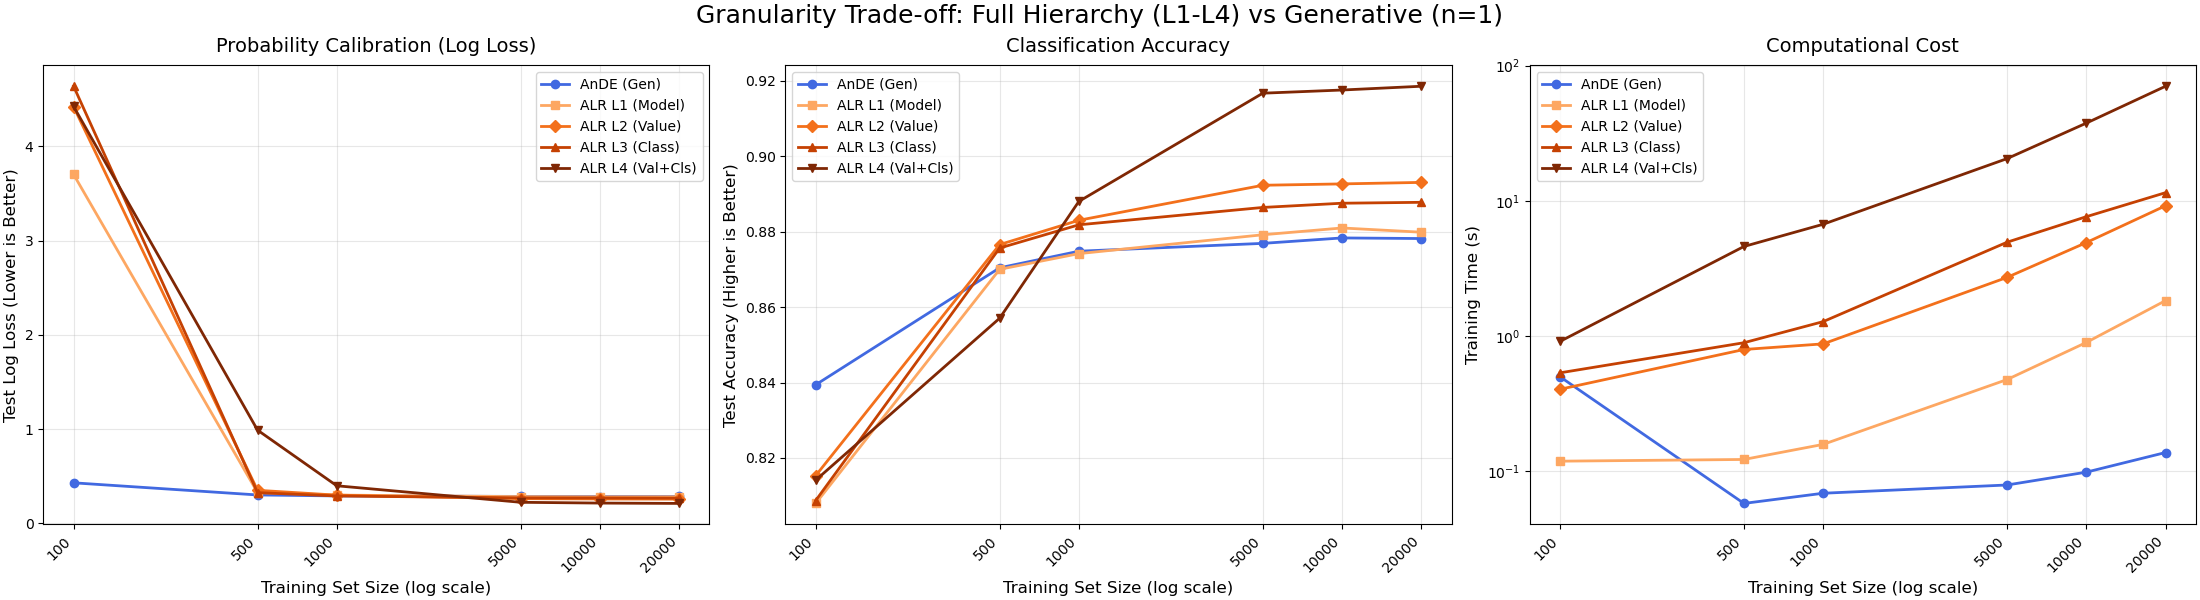
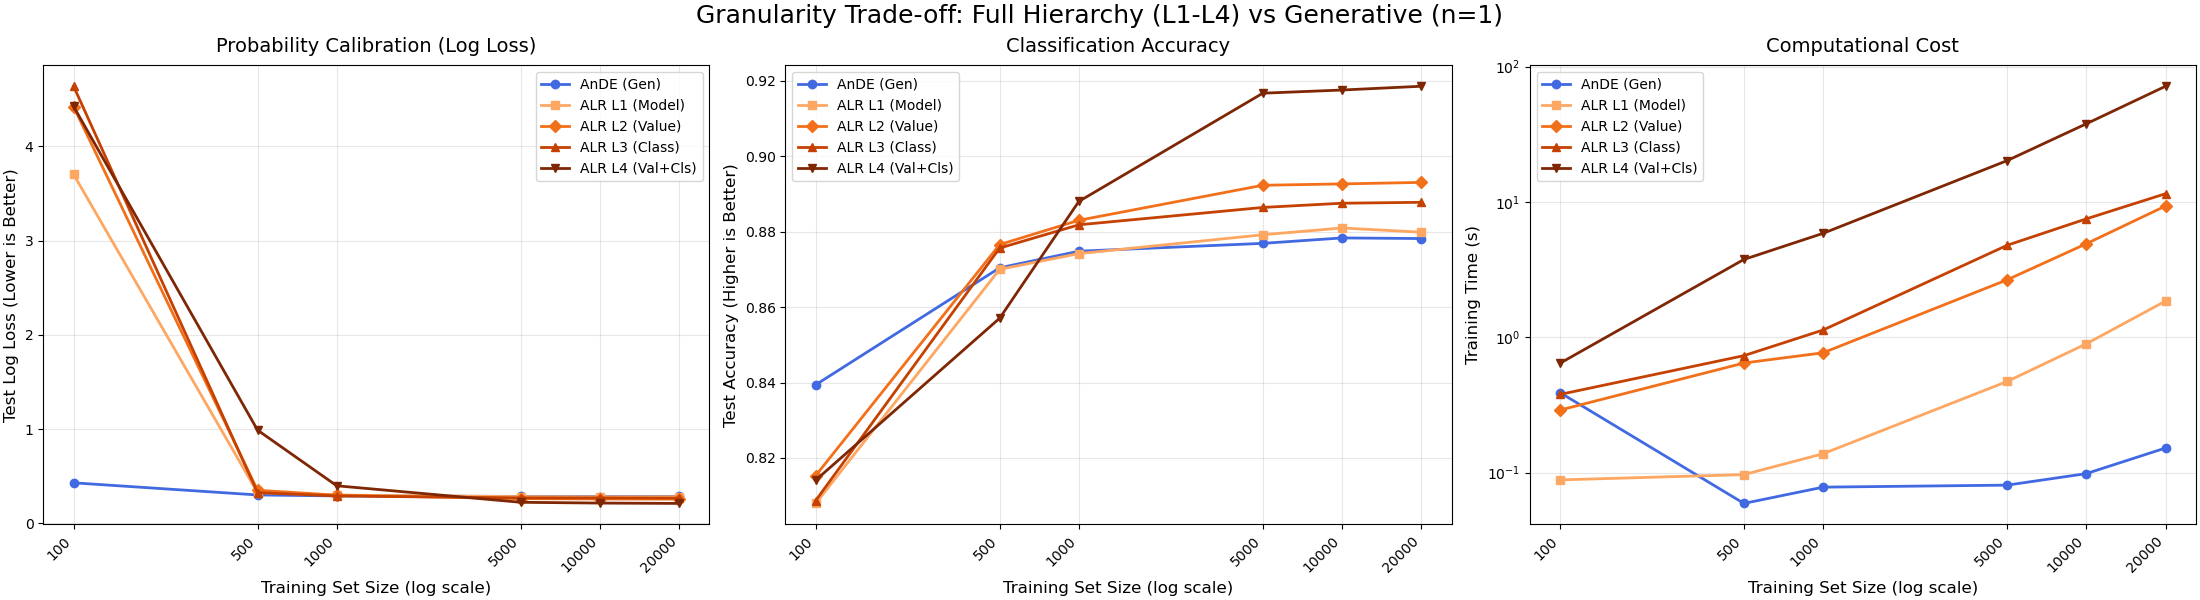
[ci skip] Style: reformat code and tests
Apply formatting and whitespace cleanups across the package. These are purely stylistic/PEP8 improvements to enhance readability and maintainability a8b68cffe2cf6c186a5d7a3b7b38eca861b0034c

diff --git a/auto_examples/sg_execution_times.html b/auto_examples/sg_execution_times.html
@@ -373,7 +373,7 @@
                   
   <section id="computation-times">
 <span id="sphx-glr-auto-examples-sg-execution-times"></span><h1>Computation times<a class="headerlink" href="#computation-times" title="Link to this heading">#</a></h1>
-<p><strong>16:04.189</strong> total execution time for 10 files <strong>from auto_examples</strong>:</p>
+<p><strong>15:54.765</strong> total execution time for 10 files <strong>from auto_examples</strong>:</p>
 <div class="docutils container">
 <style scoped>
 <link href="https://cdnjs.cloudflare.com/ajax/libs/twitter-bootstrap/5.3.0/css/bootstrap.min.css" rel="stylesheet" />
@@ -395,43 +395,43 @@ $(document).ready( function () {
 </thead>
 <tbody>
 <tr class="row-even"><td><p><a class="reference internal" href="09_plot_compare_ande_variants.html#sphx-glr-auto-examples-09-plot-compare-ande-variants-py"><span class="std std-ref">Data Efficiency &amp; Complexity: Generative vs. Hybrid Levels (L1-L4)</span></a> (<code class="docutils literal notranslate"><span class="pre">09_plot_compare_ande_variants.py</span></code>)</p></td>
-<td><p>16:00.549</p></td>
+<td><p>15:51.256</p></td>
 <td><p>0.0</p></td>
 </tr>
 <tr class="row-odd"><td><p><a class="reference internal" href="10_plot_compare_ande_interpretability.html#sphx-glr-auto-examples-10-plot-compare-ande-interpretability-py"><span class="std std-ref">Interpreting ALR: Automatic Feature Selection via Weights</span></a> (<code class="docutils literal notranslate"><span class="pre">10_plot_compare_ande_interpretability.py</span></code>)</p></td>
-<td><p>00:01.827</p></td>
+<td><p>00:01.887</p></td>
 <td><p>0.0</p></td>
 </tr>
 <tr class="row-even"><td><p><a class="reference internal" href="07_plot_a2de_xor_slice.html#sphx-glr-auto-examples-07-plot-a2de-xor-slice-py"><span class="std std-ref">Analytic View: 2D Slice of the 3D XOR Problem</span></a> (<code class="docutils literal notranslate"><span class="pre">07_plot_a2de_xor_slice.py</span></code>)</p></td>
-<td><p>00:00.383</p></td>
+<td><p>00:00.340</p></td>
 <td><p>0.0</p></td>
 </tr>
 <tr class="row-odd"><td><p><a class="reference internal" href="01_plot_gaussiannb_equivalence.html#sphx-glr-auto-examples-01-plot-gaussiannb-equivalence-py"><span class="std std-ref">MixedNB Equivalence with GaussianNB</span></a> (<code class="docutils literal notranslate"><span class="pre">01_plot_gaussiannb_equivalence.py</span></code>)</p></td>
-<td><p>00:00.284</p></td>
+<td><p>00:00.263</p></td>
 <td><p>0.0</p></td>
 </tr>
 <tr class="row-even"><td><p><a class="reference internal" href="04_plot_mixednb_vs_pipeline.html#sphx-glr-auto-examples-04-plot-mixednb-vs-pipeline-py"><span class="std std-ref">Handling Mixed Data Types with MixedNB</span></a> (<code class="docutils literal notranslate"><span class="pre">04_plot_mixednb_vs_pipeline.py</span></code>)</p></td>
-<td><p>00:00.279</p></td>
+<td><p>00:00.240</p></td>
 <td><p>0.0</p></td>
 </tr>
 <tr class="row-odd"><td><p><a class="reference internal" href="06_plot_aode_xor.html#sphx-glr-auto-examples-06-plot-aode-xor-py"><span class="std std-ref">Solving the XOR Problem: AnDE vs Naive Bayes</span></a> (<code class="docutils literal notranslate"><span class="pre">06_plot_aode_xor.py</span></code>)</p></td>
-<td><p>00:00.233</p></td>
+<td><p>00:00.205</p></td>
 <td><p>0.0</p></td>
 </tr>
 <tr class="row-even"><td><p><a class="reference internal" href="08_plot_a2de_xor_3d.html#sphx-glr-auto-examples-08-plot-a2de-xor-3d-py"><span class="std std-ref">3D Voxel-Cloud Visualization: XOR Structure</span></a> (<code class="docutils literal notranslate"><span class="pre">08_plot_a2de_xor_3d.py</span></code>)</p></td>
-<td><p>00:00.224</p></td>
+<td><p>00:00.201</p></td>
 <td><p>0.0</p></td>
 </tr>
 <tr class="row-odd"><td><p><a class="reference internal" href="05_plot_aode_mixed_demo.html#sphx-glr-auto-examples-05-plot-aode-mixed-demo-py"><span class="std std-ref">The Power of Mixed Data: Context-Dependent Logic</span></a> (<code class="docutils literal notranslate"><span class="pre">05_plot_aode_mixed_demo.py</span></code>)</p></td>
-<td><p>00:00.143</p></td>
+<td><p>00:00.131</p></td>
 <td><p>0.0</p></td>
 </tr>
 <tr class="row-even"><td><p><a class="reference internal" href="03_plot_categoricalnb_equivalence.html#sphx-glr-auto-examples-03-plot-categoricalnb-equivalence-py"><span class="std std-ref">MixedNB Equivalence with CategoricalNB</span></a> (<code class="docutils literal notranslate"><span class="pre">03_plot_categoricalnb_equivalence.py</span></code>)</p></td>
-<td><p>00:00.138</p></td>
+<td><p>00:00.129</p></td>
 <td><p>0.0</p></td>
 </tr>
 <tr class="row-odd"><td><p><a class="reference internal" href="02_plot_bernoullinb_equivalence.html#sphx-glr-auto-examples-02-plot-bernoullinb-equivalence-py"><span class="std std-ref">MixedNB Equivalence with BernoulliNB</span></a> (<code class="docutils literal notranslate"><span class="pre">02_plot_bernoullinb_equivalence.py</span></code>)</p></td>
-<td><p>00:00.127</p></td>
+<td><p>00:00.111</p></td>
 <td><p>0.0</p></td>
 </tr>
 </tbody>

diff --git a/sg_execution_times.html b/sg_execution_times.html
@@ -373,7 +373,7 @@
                   
   <section id="computation-times">
 <span id="sphx-glr-sg-execution-times"></span><h1>Computation times<a class="headerlink" href="#computation-times" title="Link to this heading">#</a></h1>
-<p><strong>16:04.189</strong> total execution time for 10 files <strong>from all galleries</strong>:</p>
+<p><strong>15:54.765</strong> total execution time for 10 files <strong>from all galleries</strong>:</p>
 <div class="docutils container">
 <style scoped>
 <link href="https://cdnjs.cloudflare.com/ajax/libs/twitter-bootstrap/5.3.0/css/bootstrap.min.css" rel="stylesheet" />
@@ -395,43 +395,43 @@ $(document).ready( function () {
 </thead>
 <tbody>
 <tr class="row-even"><td><p><a class="reference internal" href="auto_examples/09_plot_compare_ande_variants.html#sphx-glr-auto-examples-09-plot-compare-ande-variants-py"><span class="std std-ref">Data Efficiency &amp; Complexity: Generative vs. Hybrid Levels (L1-L4)</span></a> (<code class="docutils literal notranslate"><span class="pre">../examples/09_plot_compare_ande_variants.py</span></code>)</p></td>
-<td><p>16:00.549</p></td>
+<td><p>15:51.256</p></td>
 <td><p>0.0</p></td>
 </tr>
 <tr class="row-odd"><td><p><a class="reference internal" href="auto_examples/10_plot_compare_ande_interpretability.html#sphx-glr-auto-examples-10-plot-compare-ande-interpretability-py"><span class="std std-ref">Interpreting ALR: Automatic Feature Selection via Weights</span></a> (<code class="docutils literal notranslate"><span class="pre">../examples/10_plot_compare_ande_interpretability.py</span></code>)</p></td>
-<td><p>00:01.827</p></td>
+<td><p>00:01.887</p></td>
 <td><p>0.0</p></td>
 </tr>
 <tr class="row-even"><td><p><a class="reference internal" href="auto_examples/07_plot_a2de_xor_slice.html#sphx-glr-auto-examples-07-plot-a2de-xor-slice-py"><span class="std std-ref">Analytic View: 2D Slice of the 3D XOR Problem</span></a> (<code class="docutils literal notranslate"><span class="pre">../examples/07_plot_a2de_xor_slice.py</span></code>)</p></td>
-<td><p>00:00.383</p></td>
+<td><p>00:00.340</p></td>
 <td><p>0.0</p></td>
 </tr>
 <tr class="row-odd"><td><p><a class="reference internal" href="auto_examples/01_plot_gaussiannb_equivalence.html#sphx-glr-auto-examples-01-plot-gaussiannb-equivalence-py"><span class="std std-ref">MixedNB Equivalence with GaussianNB</span></a> (<code class="docutils literal notranslate"><span class="pre">../examples/01_plot_gaussiannb_equivalence.py</span></code>)</p></td>
-<td><p>00:00.284</p></td>
+<td><p>00:00.263</p></td>
 <td><p>0.0</p></td>
 </tr>
 <tr class="row-even"><td><p><a class="reference internal" href="auto_examples/04_plot_mixednb_vs_pipeline.html#sphx-glr-auto-examples-04-plot-mixednb-vs-pipeline-py"><span class="std std-ref">Handling Mixed Data Types with MixedNB</span></a> (<code class="docutils literal notranslate"><span class="pre">../examples/04_plot_mixednb_vs_pipeline.py</span></code>)</p></td>
-<td><p>00:00.279</p></td>
+<td><p>00:00.240</p></td>
 <td><p>0.0</p></td>
 </tr>
 <tr class="row-odd"><td><p><a class="reference internal" href="auto_examples/06_plot_aode_xor.html#sphx-glr-auto-examples-06-plot-aode-xor-py"><span class="std std-ref">Solving the XOR Problem: AnDE vs Naive Bayes</span></a> (<code class="docutils literal notranslate"><span class="pre">../examples/06_plot_aode_xor.py</span></code>)</p></td>
-<td><p>00:00.233</p></td>
+<td><p>00:00.205</p></td>
 <td><p>0.0</p></td>
 </tr>
 <tr class="row-even"><td><p><a class="reference internal" href="auto_examples/08_plot_a2de_xor_3d.html#sphx-glr-auto-examples-08-plot-a2de-xor-3d-py"><span class="std std-ref">3D Voxel-Cloud Visualization: XOR Structure</span></a> (<code class="docutils literal notranslate"><span class="pre">../examples/08_plot_a2de_xor_3d.py</span></code>)</p></td>
-<td><p>00:00.224</p></td>
+<td><p>00:00.201</p></td>
 <td><p>0.0</p></td>
 </tr>
 <tr class="row-odd"><td><p><a class="reference internal" href="auto_examples/05_plot_aode_mixed_demo.html#sphx-glr-auto-examples-05-plot-aode-mixed-demo-py"><span class="std std-ref">The Power of Mixed Data: Context-Dependent Logic</span></a> (<code class="docutils literal notranslate"><span class="pre">../examples/05_plot_aode_mixed_demo.py</span></code>)</p></td>
-<td><p>00:00.143</p></td>
+<td><p>00:00.131</p></td>
 <td><p>0.0</p></td>
 </tr>
 <tr class="row-even"><td><p><a class="reference internal" href="auto_examples/03_plot_categoricalnb_equivalence.html#sphx-glr-auto-examples-03-plot-categoricalnb-equivalence-py"><span class="std std-ref">MixedNB Equivalence with CategoricalNB</span></a> (<code class="docutils literal notranslate"><span class="pre">../examples/03_plot_categoricalnb_equivalence.py</span></code>)</p></td>
-<td><p>00:00.138</p></td>
+<td><p>00:00.129</p></td>
 <td><p>0.0</p></td>
 </tr>
 <tr class="row-odd"><td><p><a class="reference internal" href="auto_examples/02_plot_bernoullinb_equivalence.html#sphx-glr-auto-examples-02-plot-bernoullinb-equivalence-py"><span class="std std-ref">MixedNB Equivalence with BernoulliNB</span></a> (<code class="docutils literal notranslate"><span class="pre">../examples/02_plot_bernoullinb_equivalence.py</span></code>)</p></td>
-<td><p>00:00.127</p></td>
+<td><p>00:00.111</p></td>
 <td><p>0.0</p></td>
 </tr>
 </tbody>

diff --git a/auto_examples/01_plot_gaussiannb_equivalence.html b/auto_examples/01_plot_gaussiannb_equivalence.html
@@ -511,7 +511,7 @@ dataset are all-close.</p>
 <a href="https://matplotlib.org/stable/api/_as_gen/matplotlib.pyplot.show.html#matplotlib.pyplot.show" title="matplotlib.pyplot.show" class="sphx-glr-backref-module-matplotlib-pyplot sphx-glr-backref-type-py-function"><span class="n">plt</span><span class="o">.</span><span class="n">show</span></a><span class="p">()</span>
 </pre></div>
 </div>
-<p class="sphx-glr-timing"><strong>Total running time of the script:</strong> (0 minutes 0.284 seconds)</p>
+<p class="sphx-glr-timing"><strong>Total running time of the script:</strong> (0 minutes 0.263 seconds)</p>
 <div class="sphx-glr-footer sphx-glr-footer-example docutils container" id="sphx-glr-download-auto-examples-01-plot-gaussiannb-equivalence-py">
 <div class="sphx-glr-download sphx-glr-download-jupyter docutils container">
 <p><a class="reference download internal" download="" href="../_downloads/50ac26187f57d59b430be2a6507ec4d5/01_plot_gaussiannb_equivalence.ipynb"><code class="xref download docutils literal notranslate"><span class="pre">Download</span> <span class="pre">Jupyter</span> <span class="pre">notebook:</span> <span class="pre">01_plot_gaussiannb_equivalence.ipynb</span></code></a></p>

diff --git a/auto_examples/02_plot_bernoullinb_equivalence.html b/auto_examples/02_plot_bernoullinb_equivalence.html
@@ -531,7 +531,7 @@ dataset are all-close.</p>
 <a href="https://matplotlib.org/stable/api/_as_gen/matplotlib.pyplot.show.html#matplotlib.pyplot.show" title="matplotlib.pyplot.show" class="sphx-glr-backref-module-matplotlib-pyplot sphx-glr-backref-type-py-function"><span class="n">plt</span><span class="o">.</span><span class="n">show</span></a><span class="p">()</span>
 </pre></div>
 </div>
-<p class="sphx-glr-timing"><strong>Total running time of the script:</strong> (0 minutes 0.127 seconds)</p>
+<p class="sphx-glr-timing"><strong>Total running time of the script:</strong> (0 minutes 0.111 seconds)</p>
 <div class="sphx-glr-footer sphx-glr-footer-example docutils container" id="sphx-glr-download-auto-examples-02-plot-bernoullinb-equivalence-py">
 <div class="sphx-glr-download sphx-glr-download-jupyter docutils container">
 <p><a class="reference download internal" download="" href="../_downloads/e9f4ce65f5b2f0371d2dc680d3798721/02_plot_bernoullinb_equivalence.ipynb"><code class="xref download docutils literal notranslate"><span class="pre">Download</span> <span class="pre">Jupyter</span> <span class="pre">notebook:</span> <span class="pre">02_plot_bernoullinb_equivalence.ipynb</span></code></a></p>

diff --git a/auto_examples/03_plot_categoricalnb_equivalence.html b/auto_examples/03_plot_categoricalnb_equivalence.html
@@ -536,7 +536,7 @@ dataset are all-close.</p>
 <a href="https://matplotlib.org/stable/api/_as_gen/matplotlib.pyplot.show.html#matplotlib.pyplot.show" title="matplotlib.pyplot.show" class="sphx-glr-backref-module-matplotlib-pyplot sphx-glr-backref-type-py-function"><span class="n">plt</span><span class="o">.</span><span class="n">show</span></a><span class="p">()</span>
 </pre></div>
 </div>
-<p class="sphx-glr-timing"><strong>Total running time of the script:</strong> (0 minutes 0.138 seconds)</p>
+<p class="sphx-glr-timing"><strong>Total running time of the script:</strong> (0 minutes 0.129 seconds)</p>
 <div class="sphx-glr-footer sphx-glr-footer-example docutils container" id="sphx-glr-download-auto-examples-03-plot-categoricalnb-equivalence-py">
 <div class="sphx-glr-download sphx-glr-download-jupyter docutils container">
 <p><a class="reference download internal" download="" href="../_downloads/00b2f84cc1022caf137b5f9bf85b5a7f/03_plot_categoricalnb_equivalence.ipynb"><code class="xref download docutils literal notranslate"><span class="pre">Download</span> <span class="pre">Jupyter</span> <span class="pre">notebook:</span> <span class="pre">03_plot_categoricalnb_equivalence.ipynb</span></code></a></p>

diff --git a/auto_examples/04_plot_mixednb_vs_pipeline.html b/auto_examples/04_plot_mixednb_vs_pipeline.html
@@ -596,7 +596,7 @@ Matches the data generation process. (Acc: ~0.920).</p></li>
 <a href="https://matplotlib.org/stable/api/_as_gen/matplotlib.pyplot.show.html#matplotlib.pyplot.show" title="matplotlib.pyplot.show" class="sphx-glr-backref-module-matplotlib-pyplot sphx-glr-backref-type-py-function"><span class="n">plt</span><span class="o">.</span><span class="n">show</span></a><span class="p">()</span>
 </pre></div>
 </div>
-<p class="sphx-glr-timing"><strong>Total running time of the script:</strong> (0 minutes 0.279 seconds)</p>
+<p class="sphx-glr-timing"><strong>Total running time of the script:</strong> (0 minutes 0.240 seconds)</p>
 <div class="sphx-glr-footer sphx-glr-footer-example docutils container" id="sphx-glr-download-auto-examples-04-plot-mixednb-vs-pipeline-py">
 <div class="sphx-glr-download sphx-glr-download-jupyter docutils container">
 <p><a class="reference download internal" download="" href="../_downloads/5204dba96016a5865820642ba9f186c9/04_plot_mixednb_vs_pipeline.ipynb"><code class="xref download docutils literal notranslate"><span class="pre">Download</span> <span class="pre">Jupyter</span> <span class="pre">notebook:</span> <span class="pre">04_plot_mixednb_vs_pipeline.ipynb</span></code></a></p>

diff --git a/auto_examples/05_plot_aode_mixed_demo.html b/auto_examples/05_plot_aode_mixed_demo.html
@@ -568,7 +568,7 @@ changes completely depending on the mode.</p>
 <a href="https://matplotlib.org/stable/api/_as_gen/matplotlib.pyplot.show.html#matplotlib.pyplot.show" title="matplotlib.pyplot.show" class="sphx-glr-backref-module-matplotlib-pyplot sphx-glr-backref-type-py-function"><span class="n">plt</span><span class="o">.</span><span class="n">show</span></a><span class="p">()</span>
 </pre></div>
 </div>
-<p class="sphx-glr-timing"><strong>Total running time of the script:</strong> (0 minutes 0.143 seconds)</p>
+<p class="sphx-glr-timing"><strong>Total running time of the script:</strong> (0 minutes 0.131 seconds)</p>
 <div class="sphx-glr-footer sphx-glr-footer-example docutils container" id="sphx-glr-download-auto-examples-05-plot-aode-mixed-demo-py">
 <div class="sphx-glr-download sphx-glr-download-jupyter docutils container">
 <p><a class="reference download internal" download="" href="../_downloads/1c2630588179545e8c0b15891782aad8/05_plot_aode_mixed_demo.ipynb"><code class="xref download docutils literal notranslate"><span class="pre">Download</span> <span class="pre">Jupyter</span> <span class="pre">notebook:</span> <span class="pre">05_plot_aode_mixed_demo.ipynb</span></code></a></p>

diff --git a/auto_examples/06_plot_aode_xor.html b/auto_examples/06_plot_aode_xor.html
@@ -523,7 +523,7 @@ As shown in the plot, AnDE successfully captures the XOR structure.</p>
 <a href="https://matplotlib.org/stable/api/_as_gen/matplotlib.pyplot.show.html#matplotlib.pyplot.show" title="matplotlib.pyplot.show" class="sphx-glr-backref-module-matplotlib-pyplot sphx-glr-backref-type-py-function"><span class="n">plt</span><span class="o">.</span><span class="n">show</span></a><span class="p">()</span>
 </pre></div>
 </div>
-<p class="sphx-glr-timing"><strong>Total running time of the script:</strong> (0 minutes 0.233 seconds)</p>
+<p class="sphx-glr-timing"><strong>Total running time of the script:</strong> (0 minutes 0.205 seconds)</p>
 <div class="sphx-glr-footer sphx-glr-footer-example docutils container" id="sphx-glr-download-auto-examples-06-plot-aode-xor-py">
 <div class="sphx-glr-download sphx-glr-download-jupyter docutils container">
 <p><a class="reference download internal" download="" href="../_downloads/96a7d4f11d7792f949e26ae9dac9121f/06_plot_aode_xor.ipynb"><code class="xref download docutils literal notranslate"><span class="pre">Download</span> <span class="pre">Jupyter</span> <span class="pre">notebook:</span> <span class="pre">06_plot_aode_xor.ipynb</span></code></a></p>

diff --git a/auto_examples/07_plot_a2de_xor_slice.html b/auto_examples/07_plot_a2de_xor_slice.html
@@ -516,7 +516,7 @@ sharp boundaries. Accuracy ~0.965 (Solved).</p></li>
 <a href="https://matplotlib.org/stable/api/_as_gen/matplotlib.pyplot.show.html#matplotlib.pyplot.show" title="matplotlib.pyplot.show" class="sphx-glr-backref-module-matplotlib-pyplot sphx-glr-backref-type-py-function"><span class="n">plt</span><span class="o">.</span><span class="n">show</span></a><span class="p">()</span>
 </pre></div>
 </div>
-<p class="sphx-glr-timing"><strong>Total running time of the script:</strong> (0 minutes 0.383 seconds)</p>
+<p class="sphx-glr-timing"><strong>Total running time of the script:</strong> (0 minutes 0.340 seconds)</p>
 <div class="sphx-glr-footer sphx-glr-footer-example docutils container" id="sphx-glr-download-auto-examples-07-plot-a2de-xor-slice-py">
 <div class="sphx-glr-download sphx-glr-download-jupyter docutils container">
 <p><a class="reference download internal" download="" href="../_downloads/eae9308ffcf6dc91e180db73ab45de6b/07_plot_a2de_xor_slice.ipynb"><code class="xref download docutils literal notranslate"><span class="pre">Download</span> <span class="pre">Jupyter</span> <span class="pre">notebook:</span> <span class="pre">07_plot_a2de_xor_slice.ipynb</span></code></a></p>

diff --git a/auto_examples/08_plot_a2de_xor_3d.html b/auto_examples/08_plot_a2de_xor_3d.html
@@ -549,7 +549,7 @@ Generating volumetric grid...
 <a href="https://matplotlib.org/stable/api/_as_gen/matplotlib.pyplot.show.html#matplotlib.pyplot.show" title="matplotlib.pyplot.show" class="sphx-glr-backref-module-matplotlib-pyplot sphx-glr-backref-type-py-function"><span class="n">plt</span><span class="o">.</span><span class="n">show</span></a><span class="p">()</span>
 </pre></div>
 </div>
-<p class="sphx-glr-timing"><strong>Total running time of the script:</strong> (0 minutes 0.224 seconds)</p>
+<p class="sphx-glr-timing"><strong>Total running time of the script:</strong> (0 minutes 0.201 seconds)</p>
 <div class="sphx-glr-footer sphx-glr-footer-example docutils container" id="sphx-glr-download-auto-examples-08-plot-a2de-xor-3d-py">
 <div class="sphx-glr-download sphx-glr-download-jupyter docutils container">
 <p><a class="reference download internal" download="" href="../_downloads/bea786fddc0b9d753515283ddb0c4026/08_plot_a2de_xor_3d.ipynb"><code class="xref download docutils literal notranslate"><span class="pre">Download</span> <span class="pre">Jupyter</span> <span class="pre">notebook:</span> <span class="pre">08_plot_a2de_xor_3d.ipynb</span></code></a></p>

diff --git a/auto_examples/09_plot_compare_ande_variants.html b/auto_examples/09_plot_compare_ande_variants.html
@@ -618,7 +618,7 @@ Seed 123, N=20000 done.
 <a href="https://matplotlib.org/stable/api/_as_gen/matplotlib.pyplot.show.html#matplotlib.pyplot.show" title="matplotlib.pyplot.show" class="sphx-glr-backref-module-matplotlib-pyplot sphx-glr-backref-type-py-function"><span class="n">plt</span><span class="o">.</span><span class="n">show</span></a><span class="p">()</span>
 </pre></div>
 </div>
-<p class="sphx-glr-timing"><strong>Total running time of the script:</strong> (16 minutes 0.549 seconds)</p>
+<p class="sphx-glr-timing"><strong>Total running time of the script:</strong> (15 minutes 51.256 seconds)</p>
 <div class="sphx-glr-footer sphx-glr-footer-example docutils container" id="sphx-glr-download-auto-examples-09-plot-compare-ande-variants-py">
 <div class="sphx-glr-download sphx-glr-download-jupyter docutils container">
 <p><a class="reference download internal" download="" href="../_downloads/bd452b38dcd30f28fe194ae785794a9e/09_plot_compare_ande_variants.ipynb"><code class="xref download docutils literal notranslate"><span class="pre">Download</span> <span class="pre">Jupyter</span> <span class="pre">notebook:</span> <span class="pre">09_plot_compare_ande_variants.ipynb</span></code></a></p>

diff --git a/auto_examples/10_plot_compare_ande_interpretability.html b/auto_examples/10_plot_compare_ande_interpretability.html
@@ -547,7 +547,7 @@ By ignoring noise, ALR achieves significantly lower Log Loss and higher Accuracy
 <a href="https://matplotlib.org/stable/api/_as_gen/matplotlib.pyplot.show.html#matplotlib.pyplot.show" title="matplotlib.pyplot.show" class="sphx-glr-backref-module-matplotlib-pyplot sphx-glr-backref-type-py-function"><span class="n">plt</span><span class="o">.</span><span class="n">show</span></a><span class="p">()</span>
 </pre></div>
 </div>
-<p class="sphx-glr-timing"><strong>Total running time of the script:</strong> (0 minutes 1.827 seconds)</p>
+<p class="sphx-glr-timing"><strong>Total running time of the script:</strong> (0 minutes 1.887 seconds)</p>
 <div class="sphx-glr-footer sphx-glr-footer-example docutils container" id="sphx-glr-download-auto-examples-10-plot-compare-ande-interpretability-py">
 <div class="sphx-glr-download sphx-glr-download-jupyter docutils container">
 <p><a class="reference download internal" download="" href="../_downloads/e95a27dd71ecd33214a7ce3ae605143f/10_plot_compare_ande_interpretability.ipynb"><code class="xref download docutils literal notranslate"><span class="pre">Download</span> <span class="pre">Jupyter</span> <span class="pre">notebook:</span> <span class="pre">10_plot_compare_ande_interpretability.ipynb</span></code></a></p>